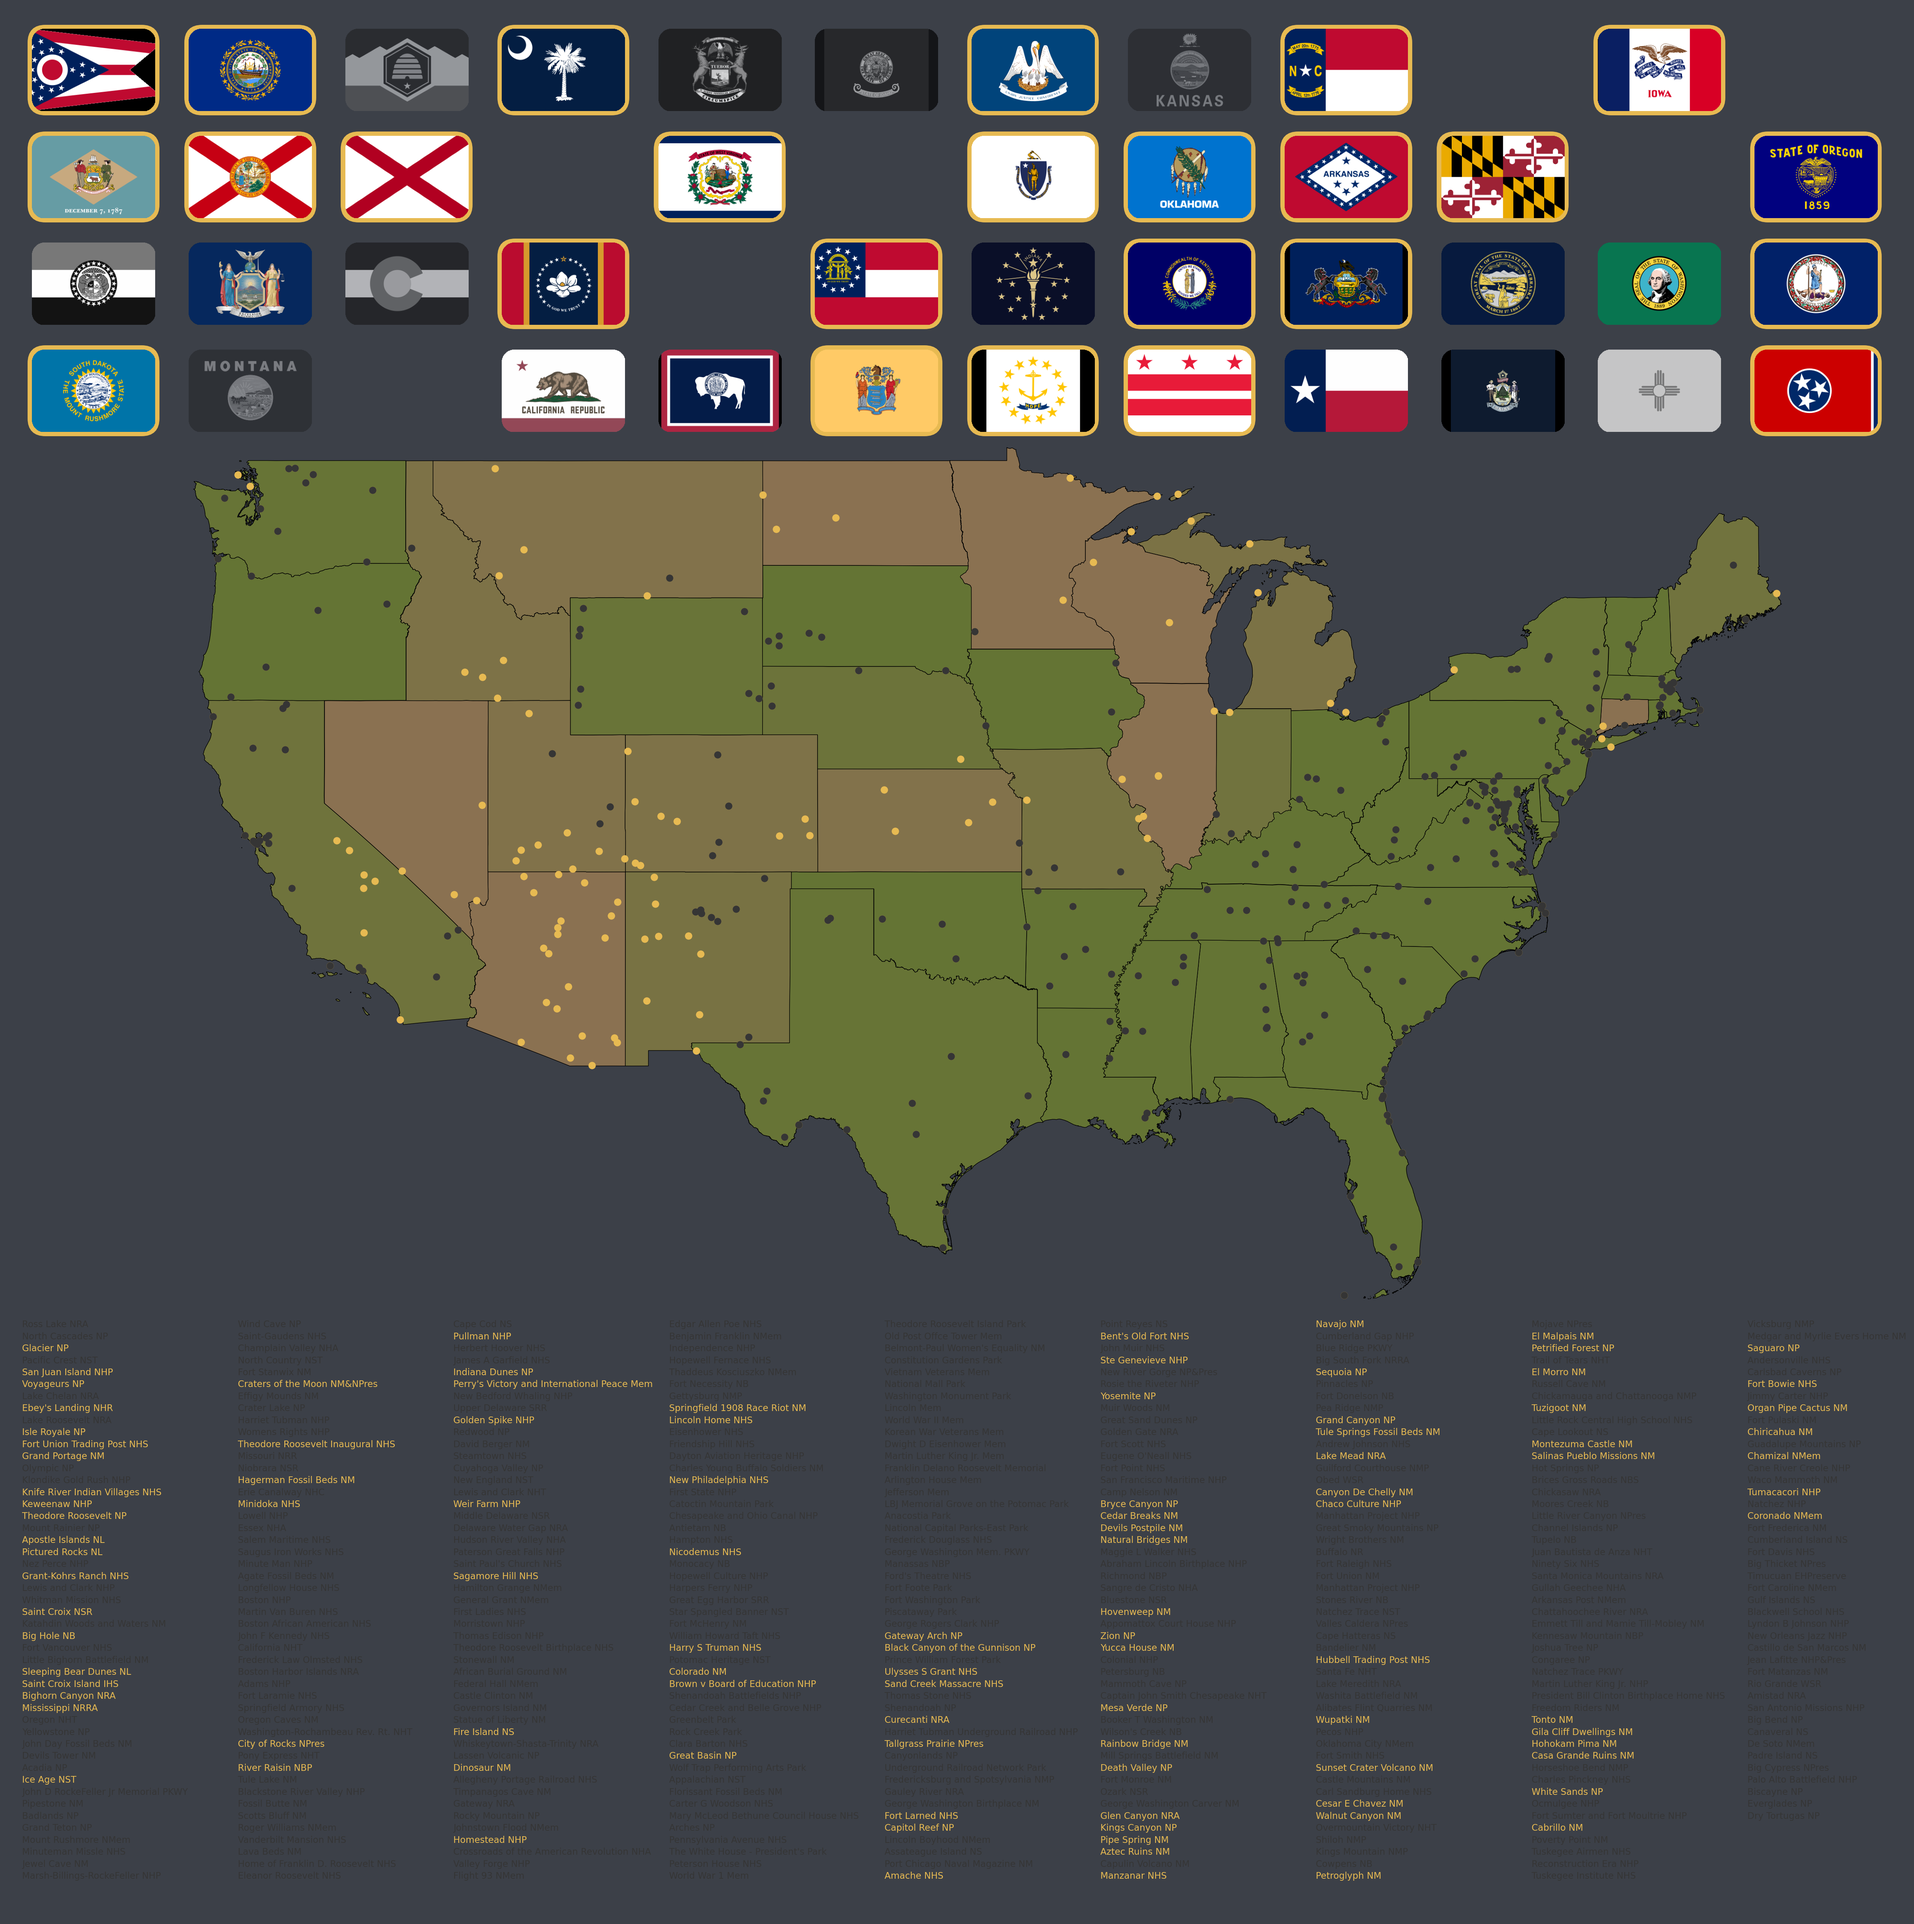
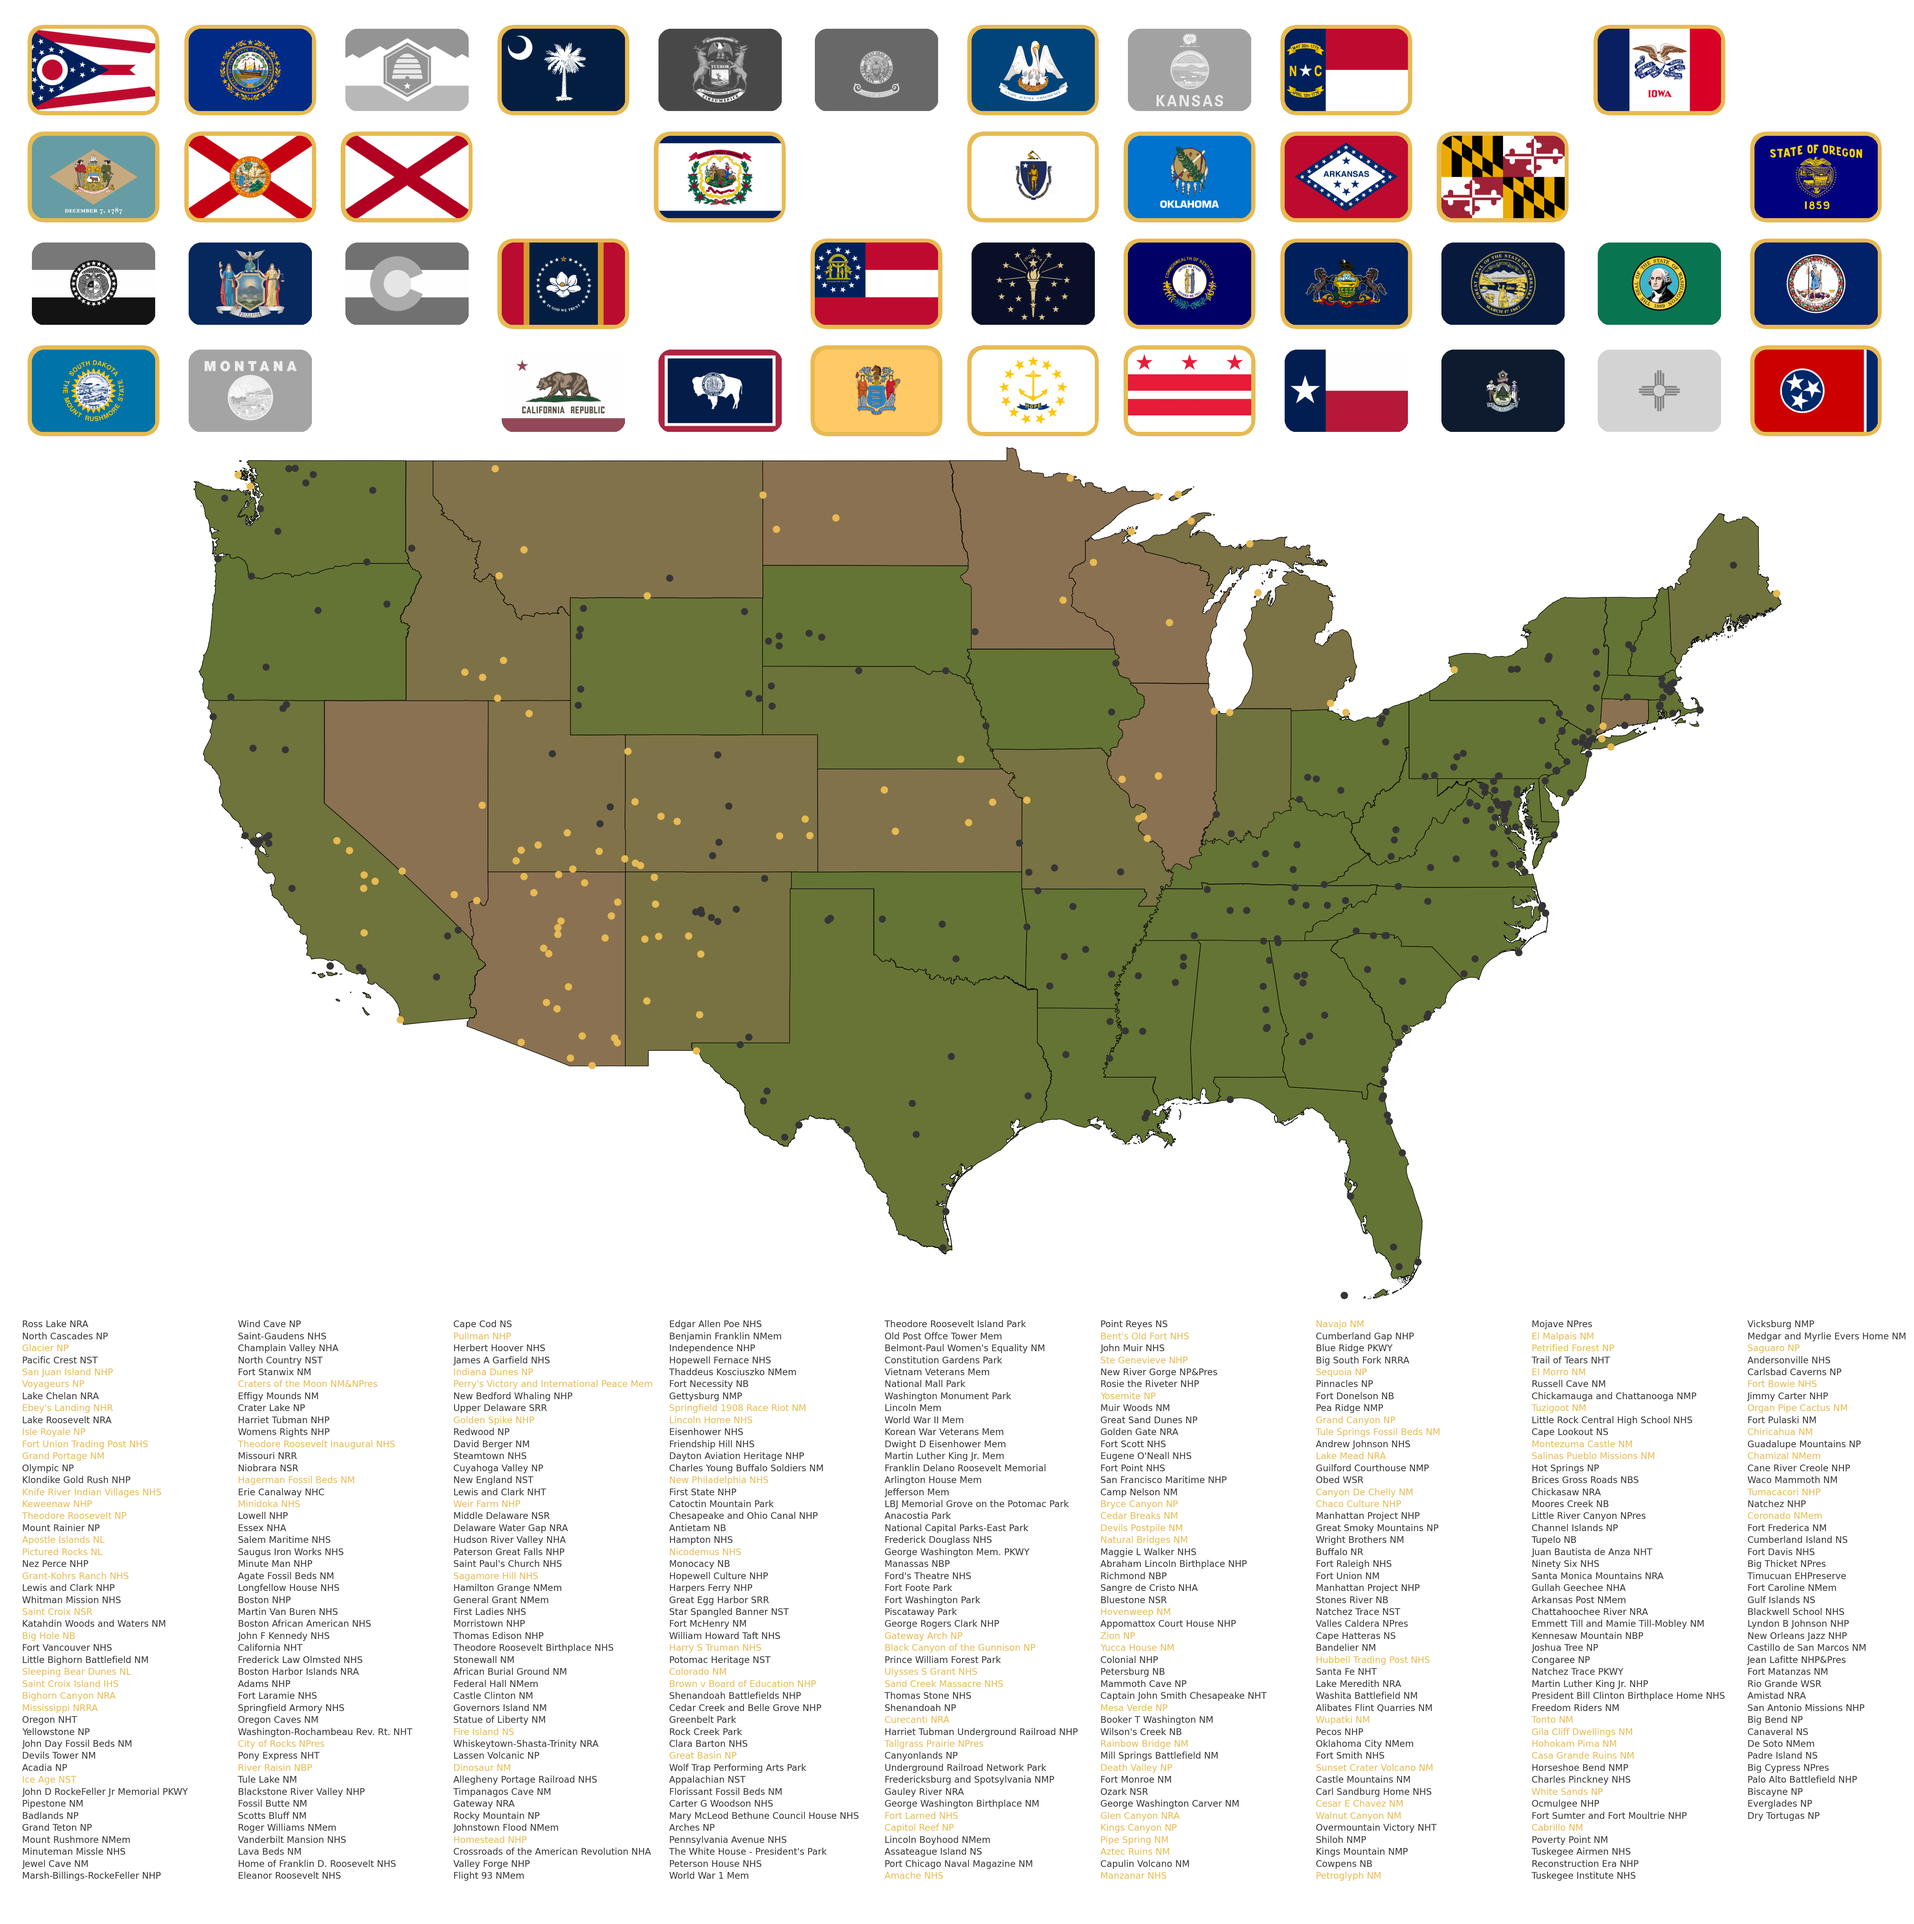
update large map

diff --git a/main.py b/main.py
@@ -10,7 +10,7 @@ from utils.file_utils import ensure_directory_exists
 
 
 # Set global variables, directories for map creation and site locations
-SCALE = 1
+SCALE = 3
 
 # US National Park Global Variables
 PATH = "us"
